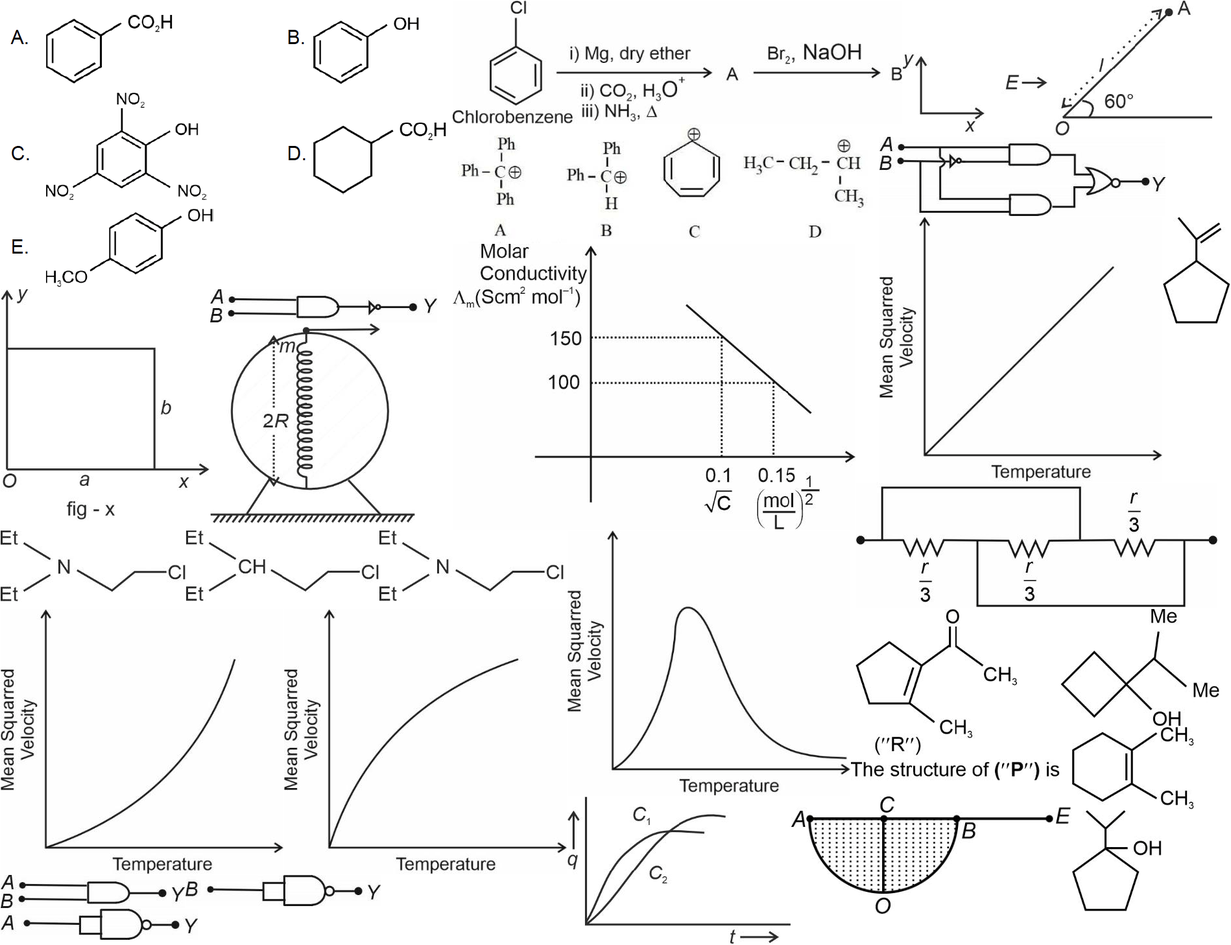
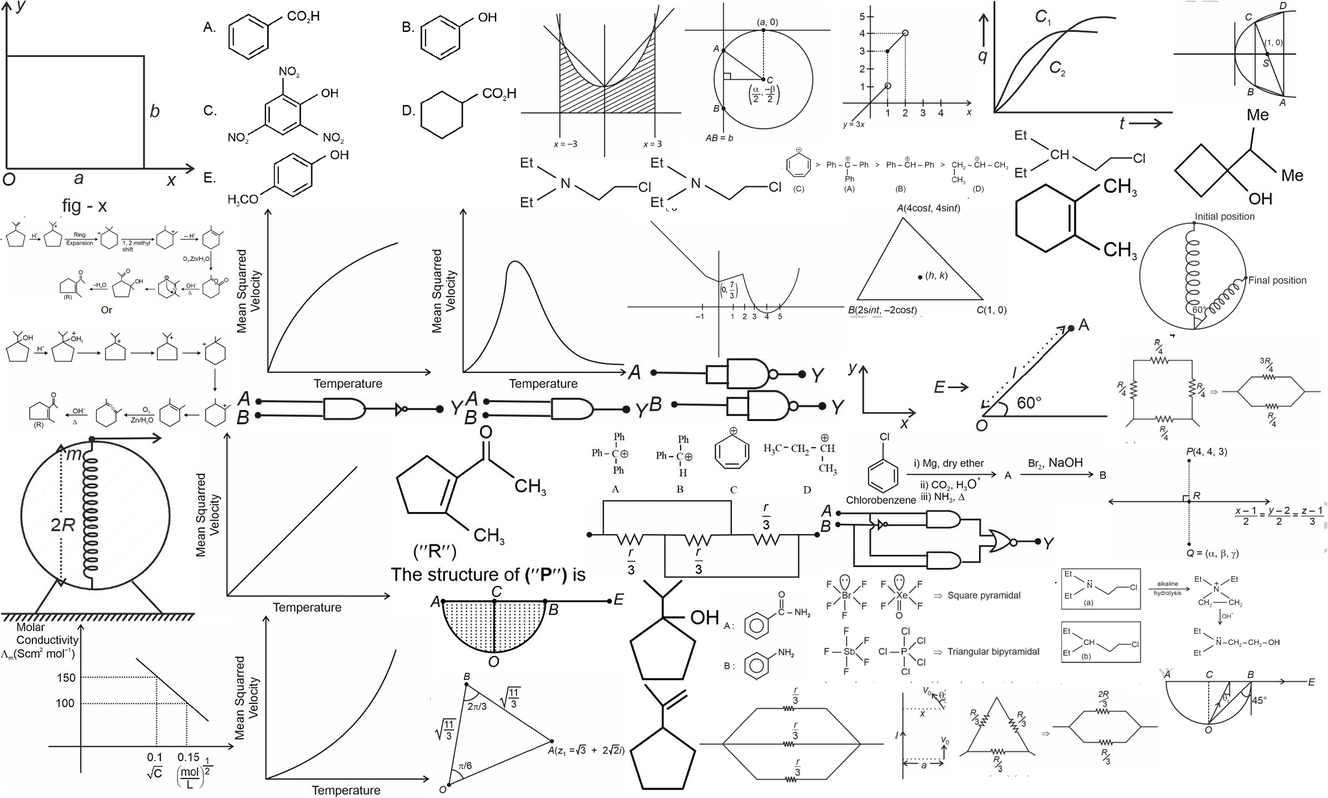
fexed

diff --git a/img/jee/mains/prev/2025/jee_mn_28_jan_2025_s1.css b/img/jee/mains/prev/2025/jee_mn_28_jan_2025_s1.css
@@ -6,125 +6,227 @@ Inline:     <i class="yourspritesname"></i>
 Responsive: <div class="yourspritesname"></div>
 */
 
-.jee_mn_28_jan_2025_s1_q_33 {max-width:432px; max-height:182px; }
-.jee_mn_28_jan_2025_s1_q_33::after {content: '\00a0';display: inline-block; width:432px; height:182px; background-position: 83.21964529331514% 96.31372549019608%; background-size: 439.35185185185185% 800.5494505494505%; background-image: url(jee_mn_28_jan_2025_s1_0.png);padding: 0; }
-div.jee_mn_28_jan_2025_s1_q_33::after {max-width:432px; width:100%;height:0;padding: 0 0 42.129629629629626% 0;}
-.jee_mn_28_jan_2025_s1_q_34 {max-width:344px; max-height:228px; }
-.jee_mn_28_jan_2025_s1_q_34::after {content: '\00a0';display: inline-block; width:344px; height:228px; background-position: 56.306306306306304% 99.91863303498779%; background-size: 551.7441860465116% 639.0350877192982%; background-image: url(jee_mn_28_jan_2025_s1_0.png);padding: 0; }
-div.jee_mn_28_jan_2025_s1_q_34::after {max-width:344px; width:100%;height:0;padding: 0 0 66.27906976744185% 0;}
-.jee_mn_28_jan_2025_s1_q_35 {max-width:477px; max-height:209px; }
-.jee_mn_28_jan_2025_s1_q_35::after {content: '\00a0';display: inline-block; width:477px; height:209px; background-position: 97.95918367346938% 0.08012820512820513%; background-size: 397.9035639412998% 697.1291866028708%; background-image: url(jee_mn_28_jan_2025_s1_0.png);padding: 0; }
-div.jee_mn_28_jan_2025_s1_q_35::after {max-width:477px; width:100%;height:0;padding: 0 0 43.81551362683438% 0;}
-.jee_mn_28_jan_2025_s1_q_38 {max-width:441px; max-height:122px; }
-.jee_mn_28_jan_2025_s1_q_38::after {content: '\00a0';display: inline-block; width:441px; height:122px; background-position: 93.06794783802333% 15.805243445692884%; background-size: 430.3854875283447% 1194.2622950819673%; background-image: url(jee_mn_28_jan_2025_s1_0.png);padding: 0; }
-div.jee_mn_28_jan_2025_s1_q_38::after {max-width:441px; width:100%;height:0;padding: 0 0 27.664399092970523% 0;}
+.jee_mn_28_jan_2025_s1_q_33 {max-width:300px; max-height:126px; }
+.jee_mn_28_jan_2025_s1_q_33::after {content: '\00a0';display: inline-block; width:300px; height:126px; background-position: 37.95077275329135% 81.79347826086956%; background-size: 682.3333333333334% 976.1904761904761%; background-image: url(jee_mn_28_jan_2025_s1_0.png);padding: 0; }
+div.jee_mn_28_jan_2025_s1_q_33::after {max-width:300px; width:100%;height:0;padding: 0 0 42% 0;}
+.jee_mn_28_jan_2025_s1_q_34 {max-width:300px; max-height:199px; }
+.jee_mn_28_jan_2025_s1_q_34::after {content: '\00a0';display: inline-block; width:300px; height:199px; background-position: 86.31940469376073% 0.09699321047526673%; background-size: 682.3333333333334% 618.0904522613065%; background-image: url(jee_mn_28_jan_2025_s1_0.png);padding: 0; }
+div.jee_mn_28_jan_2025_s1_q_34::after {max-width:300px; width:100%;height:0;padding: 0 0 66.33333333333333% 0;}
+.jee_mn_28_jan_2025_s1_q_35 {max-width:400px; max-height:175px; }
+.jee_mn_28_jan_2025_s1_q_35::after {content: '\00a0';display: inline-block; width:400px; height:175px; background-position: 79.35640558591378% 46.540284360189574%; background-size: 511.75% 702.8571428571429%; background-image: url(jee_mn_28_jan_2025_s1_0.png);padding: 0; }
+div.jee_mn_28_jan_2025_s1_q_35::after {max-width:400px; width:100%;height:0;padding: 0 0 43.75% 0;}
+.jee_mn_28_jan_2025_s1_q_38 {max-width:360px; max-height:100px; }
+.jee_mn_28_jan_2025_s1_q_38::after {content: '\00a0';display: inline-block; width:360px; height:100px; background-position: 74.98518079430943% 68.84955752212389%; background-size: 568.6111111111111% 1230%; background-image: url(jee_mn_28_jan_2025_s1_0.png);padding: 0; }
+div.jee_mn_28_jan_2025_s1_q_38::after {max-width:360px; width:100%;height:0;padding: 0 0 27.77777777777778% 0;}
 .jee_mn_28_jan_2025_s1_q_38a {max-width:284px; max-height:51px; }
-.jee_mn_28_jan_2025_s1_q_38a::after {content: '\00a0';display: inline-block; width:284px; height:51px; background-position: 0.061957868649318466% 95.94594594594595%; background-size: 668.3098591549295% 2856.8627450980393%; background-image: url(jee_mn_28_jan_2025_s1_0.png);padding: 0; }
+.jee_mn_28_jan_2025_s1_q_38a::after {content: '\00a0';display: inline-block; width:284px; height:51px; background-position: 40.61259217243335% 51.14503816793893%; background-size: 720.7746478873239% 2411.764705882353%; background-image: url(jee_mn_28_jan_2025_s1_0.png);padding: 0; }
 div.jee_mn_28_jan_2025_s1_q_38a::after {max-width:284px; width:100%;height:0;padding: 0 0 17.95774647887324% 0;}
 .jee_mn_28_jan_2025_s1_q_38b {max-width:301px; max-height:48px; }
-.jee_mn_28_jan_2025_s1_q_38b::after {content: '\00a0';display: inline-block; width:301px; height:48px; background-position: 17.908578584846587% 95.7416607523066%; background-size: 630.5647840531561% 3035.4166666666665%; background-image: url(jee_mn_28_jan_2025_s1_0.png);padding: 0; }
+.jee_mn_28_jan_2025_s1_q_38b::after {content: '\00a0';display: inline-block; width:301px; height:48px; background-position: 57.33104238258878% 50.84602368866328%; background-size: 680.0664451827242% 2562.5%; background-image: url(jee_mn_28_jan_2025_s1_0.png);padding: 0; }
 div.jee_mn_28_jan_2025_s1_q_38b::after {max-width:301px; width:100%;height:0;padding: 0 0 15.946843853820598% 0;}
 .jee_mn_28_jan_2025_s1_q_38c {max-width:304px; max-height:48px; }
-.jee_mn_28_jan_2025_s1_q_38c::after {content: '\00a0';display: inline-block; width:304px; height:48px; background-position: 0.06273525721455459% 99.43222143364088%; background-size: 624.3421052631579% 3035.4166666666665%; background-image: url(jee_mn_28_jan_2025_s1_0.png);padding: 0; }
+.jee_mn_28_jan_2025_s1_q_38c::after {content: '\00a0';display: inline-block; width:304px; height:48px; background-position: 55.47905909351692% 46.7005076142132%; background-size: 673.3552631578947% 2562.5%; background-image: url(jee_mn_28_jan_2025_s1_0.png);padding: 0; }
 div.jee_mn_28_jan_2025_s1_q_38c::after {max-width:304px; width:100%;height:0;padding: 0 0 15.789473684210526% 0;}
 .jee_mn_28_jan_2025_s1_q_38d {max-width:350px; max-height:51px; }
-.jee_mn_28_jan_2025_s1_q_38d::after {content: '\00a0';display: inline-block; width:350px; height:51px; background-position: 20.930232558139537% 31.721194879089616%; background-size: 542.2857142857143% 2856.8627450980393%; background-image: url(jee_mn_28_jan_2025_s1_0.png);padding: 0; }
+.jee_mn_28_jan_2025_s1_q_38d::after {content: '\00a0';display: inline-block; width:350px; height:51px; background-position: 21.50854449027696% 51.14503816793893%; background-size: 584.8571428571429% 2411.764705882353%; background-image: url(jee_mn_28_jan_2025_s1_0.png);padding: 0; }
 div.jee_mn_28_jan_2025_s1_q_38d::after {max-width:350px; width:100%;height:0;padding: 0 0 14.571428571428571% 0;}
-.jee_mn_28_jan_2025_s1_q_39 {max-width:322px; max-height:356px; }
-.jee_mn_28_jan_2025_s1_q_39::after {content: '\00a0';display: inline-block; width:322px; height:356px; background-position: 0.06345177664974619% 40.508628519527704%; background-size: 589.4409937888199% 409.2696629213483%; background-image: url(jee_mn_28_jan_2025_s1_0.png);padding: 0; }
-div.jee_mn_28_jan_2025_s1_q_39::after {max-width:322px; width:100%;height:0;padding: 0 0 110.55900621118012% 0;}
-.jee_mn_28_jan_2025_s1_q_41 {max-width:316px; max-height:309px; }
-.jee_mn_28_jan_2025_s1_q_41::after {content: '\00a0';display: inline-block; width:316px; height:309px; background-position: 20.480404551201012% 43.37979094076655%; background-size: 600.632911392405% 471.5210355987055%; background-image: url(jee_mn_28_jan_2025_s1_0.png);padding: 0; }
-div.jee_mn_28_jan_2025_s1_q_41::after {max-width:316px; width:100%;height:0;padding: 0 0 97.78481012658227% 0;}
-.jee_mn_28_jan_2025_s1_q_43 {max-width:557px; max-height:194px; }
-.jee_mn_28_jan_2025_s1_q_43::after {content: '\00a0';display: inline-block; width:557px; height:194px; background-position: 98.43400447427292% 58.90736342042755%; background-size: 340.754039497307% 751.0309278350516%; background-image: url(jee_mn_28_jan_2025_s1_0.png);padding: 0; }
-div.jee_mn_28_jan_2025_s1_q_43::after {max-width:557px; width:100%;height:0;padding: 0 0 34.829443447037704% 0;}
-.jee_mn_28_jan_2025_s1_q_45a {max-width:436px; max-height:409px; }
-.jee_mn_28_jan_2025_s1_q_45a::after {content: '\00a0';display: inline-block; width:436px; height:409px; background-position: 92.74965800273598% 31.870229007633586%; background-size: 435.3211009174312% 356.23471882640587%; background-image: url(jee_mn_28_jan_2025_s1_0.png);padding: 0; }
-div.jee_mn_28_jan_2025_s1_q_45a::after {max-width:436px; width:100%;height:0;padding: 0 0 93.80733944954129% 0;}
-.jee_mn_28_jan_2025_s1_q_45b {max-width:436px; max-height:409px; }
-.jee_mn_28_jan_2025_s1_q_45b::after {content: '\00a0';display: inline-block; width:436px; height:409px; background-position: 0.06839945280437756% 89.59923664122137%; background-size: 435.3211009174312% 356.23471882640587%; background-image: url(jee_mn_28_jan_2025_s1_0.png);padding: 0; }
-div.jee_mn_28_jan_2025_s1_q_45b::after {max-width:436px; width:100%;height:0;padding: 0 0 93.80733944954129% 0;}
-.jee_mn_28_jan_2025_s1_q_45c {max-width:436px; max-height:409px; }
-.jee_mn_28_jan_2025_s1_q_45c::after {content: '\00a0';display: inline-block; width:436px; height:409px; background-position: 29.958960328317374% 89.59923664122137%; background-size: 435.3211009174312% 356.23471882640587%; background-image: url(jee_mn_28_jan_2025_s1_0.png);padding: 0; }
-div.jee_mn_28_jan_2025_s1_q_45c::after {max-width:436px; width:100%;height:0;padding: 0 0 93.80733944954129% 0;}
-.jee_mn_28_jan_2025_s1_q_45d {max-width:436px; max-height:409px; }
-.jee_mn_28_jan_2025_s1_q_45d::after {content: '\00a0';display: inline-block; width:436px; height:409px; background-position: 59.84952120383037% 78.05343511450381%; background-size: 435.3211009174312% 356.23471882640587%; background-image: url(jee_mn_28_jan_2025_s1_0.png);padding: 0; }
-div.jee_mn_28_jan_2025_s1_q_45d::after {max-width:436px; width:100%;height:0;padding: 0 0 93.80733944954129% 0;}
-.jee_mn_28_jan_2025_s1_q_53 {max-width:322px; max-height:265px; }
-.jee_mn_28_jan_2025_s1_q_53::after {content: '\00a0';display: inline-block; width:322px; height:265px; background-position: 83.248730964467% 78.7751677852349%; background-size: 589.4409937888199% 549.811320754717%; background-image: url(jee_mn_28_jan_2025_s1_0.png);padding: 0; }
-div.jee_mn_28_jan_2025_s1_q_53::after {max-width:322px; width:100%;height:0;padding: 0 0 82.29813664596273% 0;}
+.jee_mn_28_jan_2025_s1_q_39 {max-width:300px; max-height:332px; }
+.jee_mn_28_jan_2025_s1_q_39::after {content: '\00a0';display: inline-block; width:300px; height:332px; background-position: 0.057240984544934176% 0.111358574610245%; background-size: 682.3333333333334% 370.48192771084337%; background-image: url(jee_mn_28_jan_2025_s1_0.png);padding: 0; }
+div.jee_mn_28_jan_2025_s1_q_39::after {max-width:300px; width:100%;height:0;padding: 0 0 110.66666666666667% 0;}
+.jee_mn_28_jan_2025_s1_q_41 {max-width:300px; max-height:293px; }
+.jee_mn_28_jan_2025_s1_q_41::after {content: '\00a0';display: inline-block; width:300px; height:293px; background-position: 0.057240984544934176% 71.07790821771611%; background-size: 682.3333333333334% 419.7952218430034%; background-image: url(jee_mn_28_jan_2025_s1_0.png);padding: 0; }
+div.jee_mn_28_jan_2025_s1_q_41::after {max-width:300px; width:100%;height:0;padding: 0 0 97.66666666666667% 0;}
+.jee_mn_28_jan_2025_s1_q_43 {max-width:360px; max-height:125px; }
+.jee_mn_28_jan_2025_s1_q_43::after {content: '\00a0';display: inline-block; width:360px; height:125px; background-position: 53.58624777711915% 69.41176470588235%; background-size: 568.6111111111111% 984%; background-image: url(jee_mn_28_jan_2025_s1_0.png);padding: 0; }
+div.jee_mn_28_jan_2025_s1_q_43::after {max-width:360px; width:100%;height:0;padding: 0 0 34.72222222222222% 0;}
+.jee_mn_28_jan_2025_s1_q_45a {max-width:300px; max-height:281px; }
+.jee_mn_28_jan_2025_s1_q_45a::after {content: '\00a0';display: inline-block; width:300px; height:281px; background-position: 17.28677733257012% 70.17913593256058%; background-size: 682.3333333333334% 437.7224199288256%; background-image: url(jee_mn_28_jan_2025_s1_0.png);padding: 0; }
+div.jee_mn_28_jan_2025_s1_q_45a::after {max-width:300px; width:100%;height:0;padding: 0 0 93.66666666666667% 0;}
+.jee_mn_28_jan_2025_s1_q_45b {max-width:300px; max-height:281px; }
+.jee_mn_28_jan_2025_s1_q_45b::after {content: '\00a0';display: inline-block; width:300px; height:281px; background-position: 20.721236405266172% 99.89462592202318%; background-size: 682.3333333333334% 437.7224199288256%; background-image: url(jee_mn_28_jan_2025_s1_0.png);padding: 0; }
+div.jee_mn_28_jan_2025_s1_q_45b::after {max-width:300px; width:100%;height:0;padding: 0 0 93.66666666666667% 0;}
+.jee_mn_28_jan_2025_s1_q_45c {max-width:300px; max-height:281px; }
+.jee_mn_28_jan_2025_s1_q_45c::after {content: '\00a0';display: inline-block; width:300px; height:281px; background-position: 20.892959358900974% 33.825079030558484%; background-size: 682.3333333333334% 437.7224199288256%; background-image: url(jee_mn_28_jan_2025_s1_0.png);padding: 0; }
+div.jee_mn_28_jan_2025_s1_q_45c::after {max-width:300px; width:100%;height:0;padding: 0 0 93.66666666666667% 0;}
+.jee_mn_28_jan_2025_s1_q_45d {max-width:300px; max-height:281px; }
+.jee_mn_28_jan_2025_s1_q_45d::after {content: '\00a0';display: inline-block; width:300px; height:281px; background-position: 38.12249570692616% 33.825079030558484%; background-size: 682.3333333333334% 437.7224199288256%; background-image: url(jee_mn_28_jan_2025_s1_0.png);padding: 0; }
+div.jee_mn_28_jan_2025_s1_q_45d::after {max-width:300px; width:100%;height:0;padding: 0 0 93.66666666666667% 0;}
+.jee_mn_28_jan_2025_s1_q_53 {max-width:300px; max-height:247px; }
+.jee_mn_28_jan_2025_s1_q_53::after {content: '\00a0';display: inline-block; width:300px; height:247px; background-position: 34.5163136805953% 66.63275686673448%; background-size: 682.3333333333334% 497.9757085020243%; background-image: url(jee_mn_28_jan_2025_s1_0.png);padding: 0; }
+div.jee_mn_28_jan_2025_s1_q_53::after {max-width:300px; width:100%;height:0;padding: 0 0 82.33333333333333% 0;}
 .jee_mn_28_jan_2025_s1_q_53a {max-width:188px; max-height:127px; }
-.jee_mn_28_jan_2025_s1_q_53a::after {content: '\00a0';display: inline-block; width:188px; height:127px; background-position: 96.66666666666667% 84.28571428571429%; background-size: 1009.5744680851063% 1147.244094488189%; background-image: url(jee_mn_28_jan_2025_s1_0.png);padding: 0; }
+.jee_mn_28_jan_2025_s1_q_53a::after {content: '\00a0';display: inline-block; width:188px; height:127px; background-position: 84.18504572350726% 24.932003626473254%; background-size: 1088.8297872340424% 968.503937007874%; background-image: url(jee_mn_28_jan_2025_s1_0.png);padding: 0; }
 div.jee_mn_28_jan_2025_s1_q_53a::after {max-width:188px; width:100%;height:0;padding: 0 0 67.55319148936171% 0;}
 .jee_mn_28_jan_2025_s1_q_53b {max-width:138px; max-height:156px; }
-.jee_mn_28_jan_2025_s1_q_53b::after {content: '\00a0';display: inline-block; width:138px; height:156px; background-position: 93.92045454545455% 96.00307455803228%; background-size: 1375.3623188405797% 933.974358974359%; background-image: url(jee_mn_28_jan_2025_s1_0.png);padding: 0; }
+.jee_mn_28_jan_2025_s1_q_53b::after {content: '\00a0';display: inline-block; width:138px; height:156px; background-position: 50.81194342587742% 83.14711359404097%; background-size: 1483.3333333333333% 788.4615384615385%; background-image: url(jee_mn_28_jan_2025_s1_0.png);padding: 0; }
 div.jee_mn_28_jan_2025_s1_q_53b::after {max-width:138px; width:100%;height:0;padding: 0 0 113.04347826086956% 0;}
-.jee_mn_28_jan_2025_s1_q_53c {max-width:245px; max-height:181px; }
-.jee_mn_28_jan_2025_s1_q_53c::after {content: '\00a0';display: inline-block; width:245px; height:181px; background-position: 98.91107078039927% 73.58934169278997%; background-size: 774.6938775510204% 804.9723756906077%; background-image: url(jee_mn_28_jan_2025_s1_0.png);padding: 0; }
-div.jee_mn_28_jan_2025_s1_q_53c::after {max-width:245px; width:100%;height:0;padding: 0 0 73.87755102040816% 0;}
+.jee_mn_28_jan_2025_s1_q_53c {max-width:200px; max-height:148px; }
+.jee_mn_28_jan_2025_s1_q_53c::after {content: '\00a0';display: inline-block; width:200px; height:148px; background-position: 97.94260963724959% 15.526802218114602%; background-size: 1023.5% 831.081081081081%; background-image: url(jee_mn_28_jan_2025_s1_0.png);padding: 0; }
+div.jee_mn_28_jan_2025_s1_q_53c::after {max-width:200px; width:100%;height:0;padding: 0 0 74% 0;}
 .jee_mn_28_jan_2025_s1_q_53d {max-width:104px; max-height:165px; }
-.jee_mn_28_jan_2025_s1_q_53d::after {content: '\00a0';display: inline-block; width:104px; height:165px; background-position: 99.94425863991081% 25.851393188854487%; background-size: 1825% 883.030303030303%; background-image: url(jee_mn_28_jan_2025_s1_0.png);padding: 0; }
+.jee_mn_28_jan_2025_s1_q_53d::after {content: '\00a0';display: inline-block; width:104px; height:165px; background-position: 49.922799794132786% 98.87323943661971%; background-size: 1968.2692307692307% 745.4545454545455%; background-image: url(jee_mn_28_jan_2025_s1_0.png);padding: 0; }
 div.jee_mn_28_jan_2025_s1_q_53d::after {max-width:104px; width:100%;height:0;padding: 0 0 158.65384615384616% 0;}
-.jee_mn_28_jan_2025_s1_q_55 {max-width:696px; max-height:444px; }
-.jee_mn_28_jan_2025_s1_q_55::after {content: '\00a0';display: inline-block; width:696px; height:444px; background-position: 0.08319467554076539% 0.09871668311944719%; background-size: 272.7011494252874% 328.15315315315314%; background-image: url(jee_mn_28_jan_2025_s1_0.png);padding: 0; }
-div.jee_mn_28_jan_2025_s1_q_55::after {max-width:696px; width:100%;height:0;padding: 0 0 63.793103448275865% 0;}
-.jee_mn_28_jan_2025_s1_q_61 {max-width:657px; max-height:183px; }
-.jee_mn_28_jan_2025_s1_q_61::after {content: '\00a0';display: inline-block; width:657px; height:183px; background-position: 56.24496373892023% 15.070643642072213%; background-size: 288.8888888888889% 796.1748633879781%; background-image: url(jee_mn_28_jan_2025_s1_0.png);padding: 0; }
-div.jee_mn_28_jan_2025_s1_q_61::after {max-width:657px; width:100%;height:0;padding: 0 0 27.85388127853881% 0;}
-.jee_mn_28_jan_2025_s1_q_65a {max-width:284px; max-height:109px; }
-.jee_mn_28_jan_2025_s1_q_65a::after {content: '\00a0';display: inline-block; width:284px; height:109px; background-position: 36.2453531598513% 60.682492581602375%; background-size: 668.3098591549295% 1336.697247706422%; background-image: url(jee_mn_28_jan_2025_s1_0.png);padding: 0; }
-div.jee_mn_28_jan_2025_s1_q_65a::after {max-width:284px; width:100%;height:0;padding: 0 0 38.38028169014085% 0;}
-.jee_mn_28_jan_2025_s1_q_65b {max-width:297px; max-height:109px; }
-.jee_mn_28_jan_2025_s1_q_65b::after {content: '\00a0';display: inline-block; width:297px; height:109px; background-position: 17.926296064959402% 60.682492581602375%; background-size: 639.057239057239% 1336.697247706422%; background-image: url(jee_mn_28_jan_2025_s1_0.png);padding: 0; }
-div.jee_mn_28_jan_2025_s1_q_65b::after {max-width:297px; width:100%;height:0;padding: 0 0 36.7003367003367% 0;}
-.jee_mn_28_jan_2025_s1_q_65c {max-width:285px; max-height:110px; }
-.jee_mn_28_jan_2025_s1_q_65c::after {content: '\00a0';display: inline-block; width:285px; height:110px; background-position: 0.06199628022318661% 60.7275426874536%; background-size: 665.9649122807018% 1324.5454545454545%; background-image: url(jee_mn_28_jan_2025_s1_0.png);padding: 0; }
-div.jee_mn_28_jan_2025_s1_q_65c::after {max-width:285px; width:100%;height:0;padding: 0 0 38.59649122807018% 0;}
-.jee_mn_28_jan_2025_s1_q_71 {max-width:693px; max-height:190px; }
-.jee_mn_28_jan_2025_s1_q_71::after {content: '\00a0';display: inline-block; width:693px; height:190px; background-position: 57.9253112033195% 0.07892659826361484%; background-size: 273.88167388167386% 766.8421052631579%; background-image: url(jee_mn_28_jan_2025_s1_0.png);padding: 0; }
-div.jee_mn_28_jan_2025_s1_q_71::after {max-width:693px; width:100%;height:0;padding: 0 0 27.417027417027416% 0;}
-.jee_mn_28_jan_2025_s1_q_75 {max-width:621px; max-height:441px; }
-.jee_mn_28_jan_2025_s1_q_75::after {content: '\00a0';display: inline-block; width:621px; height:441px; background-position: 54.65935787000783% 37.00787401574803%; background-size: 305.6360708534622% 330.3854875283447%; background-image: url(jee_mn_28_jan_2025_s1_0.png);padding: 0; }
-div.jee_mn_28_jan_2025_s1_q_75::after {max-width:621px; width:100%;height:0;padding: 0 0 71.01449275362319% 0;}
+.jee_mn_28_jan_2025_s1_q_55 {max-width:500px; max-height:319px; }
+.jee_mn_28_jan_2025_s1_q_55::after {content: '\00a0';display: inline-block; width:500px; height:319px; background-position: 19.521654815772465% 0.10976948408342481%; background-size: 409.4% 385.57993730407526%; background-image: url(jee_mn_28_jan_2025_s1_0.png);padding: 0; }
+div.jee_mn_28_jan_2025_s1_q_55::after {max-width:500px; width:100%;height:0;padding: 0 0 63.8% 0;}
+.jee_mn_28_jan_2025_s1_q_61 {max-width:400px; max-height:111px; }
+.jee_mn_28_jan_2025_s1_q_61::after {content: '\00a0';display: inline-block; width:400px; height:111px; background-position: 54.88767455980571% 58.53440571939232%; background-size: 511.75% 1108.1081081081081%; background-image: url(jee_mn_28_jan_2025_s1_0.png);padding: 0; }
+div.jee_mn_28_jan_2025_s1_q_61::after {max-width:400px; width:100%;height:0;padding: 0 0 27.75% 0;}
+.jee_mn_28_jan_2025_s1_q_65a {max-width:200px; max-height:77px; }
+.jee_mn_28_jan_2025_s1_q_65a::after {content: '\00a0';display: inline-block; width:200px; height:77px; background-position: 43.47590687601516% 21.075455333911535%; background-size: 1023.5% 1597.4025974025974%; background-image: url(jee_mn_28_jan_2025_s1_0.png);padding: 0; }
+div.jee_mn_28_jan_2025_s1_q_65a::after {max-width:200px; width:100%;height:0;padding: 0 0 38.5% 0;}
+.jee_mn_28_jan_2025_s1_q_65b {max-width:200px; max-height:73px; }
+.jee_mn_28_jan_2025_s1_q_65b::after {content: '\00a0';display: inline-block; width:200px; height:73px; background-position: 84.73199783432594% 17.372515125324114%; background-size: 1023.5% 1684.9315068493152%; background-image: url(jee_mn_28_jan_2025_s1_0.png);padding: 0; }
+div.jee_mn_28_jan_2025_s1_q_65b::after {max-width:200px; width:100%;height:0;padding: 0 0 36.5% 0;}
+.jee_mn_28_jan_2025_s1_q_65c {max-width:200px; max-height:77px; }
+.jee_mn_28_jan_2025_s1_q_65c::after {content: '\00a0';display: inline-block; width:200px; height:77px; background-position: 54.35841905793178% 21.075455333911535%; background-size: 1023.5% 1597.4025974025974%; background-image: url(jee_mn_28_jan_2025_s1_0.png);padding: 0; }
+div.jee_mn_28_jan_2025_s1_q_65c::after {max-width:200px; width:100%;height:0;padding: 0 0 38.5% 0;}
+.jee_mn_28_jan_2025_s1_q_71 {max-width:400px; max-height:110px; }
+.jee_mn_28_jan_2025_s1_q_71::after {content: '\00a0';display: inline-block; width:400px; height:110px; background-position: 79.23497267759562% 59.55357142857143%; background-size: 511.75% 1118.1818181818182%; background-image: url(jee_mn_28_jan_2025_s1_0.png);padding: 0; }
+div.jee_mn_28_jan_2025_s1_q_71::after {max-width:400px; width:100%;height:0;padding: 0 0 27.5% 0;}
+.jee_mn_28_jan_2025_s1_q_75 {max-width:360px; max-height:256px; }
+.jee_mn_28_jan_2025_s1_q_75::after {content: '\00a0';display: inline-block; width:360px; height:256px; background-position: 0.05927682276229994% 98.56262833675565%; background-size: 568.6111111111111% 480.46875%; background-image: url(jee_mn_28_jan_2025_s1_0.png);padding: 0; }
+div.jee_mn_28_jan_2025_s1_q_75::after {max-width:360px; width:100%;height:0;padding: 0 0 71.11111111111111% 0;}
+.jee_mn_28_jan_2025_s1_sol_11 {max-width:205px; max-height:166px; }
+.jee_mn_28_jan_2025_s1_sol_11::after {content: '\00a0';display: inline-block; width:205px; height:166px; background-position: 98.2084690553746% 0.09398496240601503%; background-size: 998.5365853658536% 740.9638554216867%; background-image: url(jee_mn_28_jan_2025_s1_0.png);padding: 0; }
+div.jee_mn_28_jan_2025_s1_sol_11::after {max-width:205px; width:100%;height:0;padding: 0 0 80.97560975609755% 0;}
+.jee_mn_28_jan_2025_s1_sol_13 {max-width:339px; max-height:230px; }
+.jee_mn_28_jan_2025_s1_sol_13::after {content: '\00a0';display: inline-block; width:339px; height:230px; background-position: 56.61592505854801% 32.1%; background-size: 603.834808259587% 534.7826086956521%; background-image: url(jee_mn_28_jan_2025_s1_0.png);padding: 0; }
+div.jee_mn_28_jan_2025_s1_sol_13::after {max-width:339px; width:100%;height:0;padding: 0 0 67.84660766961652% 0;}
+.jee_mn_28_jan_2025_s1_sol_17 {max-width:247px; max-height:241px; }
+.jee_mn_28_jan_2025_s1_sol_17::after {content: '\00a0';display: inline-block; width:247px; height:241px; background-position: 44.611111111111114% 0.10111223458038422%; background-size: 828.744939271255% 510.37344398340247%; background-image: url(jee_mn_28_jan_2025_s1_0.png);padding: 0; }
+div.jee_mn_28_jan_2025_s1_sol_17::after {max-width:247px; width:100%;height:0;padding: 0 0 97.57085020242916% 0;}
+.jee_mn_28_jan_2025_s1_sol_2 {max-width:236px; max-height:220px; }
+.jee_mn_28_jan_2025_s1_sol_2::after {content: '\00a0';display: inline-block; width:236px; height:220px; background-position: 58.034235229155165% 0.09900990099009901%; background-size: 867.3728813559322% 559.0909090909091%; background-image: url(jee_mn_28_jan_2025_s1_0.png);padding: 0; }
+div.jee_mn_28_jan_2025_s1_sol_2::after {max-width:236px; width:100%;height:0;padding: 0 0 93.22033898305085% 0;}
+.jee_mn_28_jan_2025_s1_sol_24 {max-width:219px; max-height:206px; }
+.jee_mn_28_jan_2025_s1_sol_24::after {content: '\00a0';display: inline-block; width:219px; height:206px; background-position: 70.45951859956236% 0.09765625%; background-size: 934.703196347032% 597.0873786407767%; background-image: url(jee_mn_28_jan_2025_s1_0.png);padding: 0; }
+div.jee_mn_28_jan_2025_s1_sol_24::after {max-width:219px; width:100%;height:0;padding: 0 0 94.06392694063926% 0;}
+.jee_mn_28_jan_2025_s1_sol_28 {max-width:103px; max-height:154px; }
+.jee_mn_28_jan_2025_s1_sol_28::after {content: '\00a0';display: inline-block; width:103px; height:154px; background-position: 70.5246913580247% 97.86245353159852%; background-size: 1987.378640776699% 798.7012987012987%; background-image: url(jee_mn_28_jan_2025_s1_0.png);padding: 0; }
+div.jee_mn_28_jan_2025_s1_sol_28::after {max-width:103px; width:100%;height:0;padding: 0 0 149.51456310679612% 0;}
+.jee_mn_28_jan_2025_s1_sol_29 {max-width:311px; max-height:144px; }
+.jee_mn_28_jan_2025_s1_sol_29::after {content: '\00a0';display: inline-block; width:311px; height:144px; background-position: 84.96543778801843% 96.96132596685082%; background-size: 658.1993569131832% 854.1666666666666%; background-image: url(jee_mn_28_jan_2025_s1_0.png);padding: 0; }
+div.jee_mn_28_jan_2025_s1_sol_29::after {max-width:311px; width:100%;height:0;padding: 0 0 46.30225080385852% 0;}
+.jee_mn_28_jan_2025_s1_sol_29a {max-width:333px; max-height:166px; }
+.jee_mn_28_jan_2025_s1_sol_29a::after {content: '\00a0';display: inline-block; width:333px; height:166px; background-position: 99.64994165694283% 48.402255639097746%; background-size: 614.7147147147147% 740.9638554216867%; background-image: url(jee_mn_28_jan_2025_s1_0.png);padding: 0; }
+div.jee_mn_28_jan_2025_s1_sol_29a::after {max-width:333px; width:100%;height:0;padding: 0 0 49.849849849849846% 0;}
+.jee_mn_28_jan_2025_s1_sol_33 {max-width:246px; max-height:106px; }
+.jee_mn_28_jan_2025_s1_sol_33::after {content: '\00a0';display: inline-block; width:246px; height:106px; background-position: 99.22265408106607% 91.63701067615658%; background-size: 832.1138211382114% 1160.377358490566%; background-image: url(jee_mn_28_jan_2025_s1_0.png);padding: 0; }
+div.jee_mn_28_jan_2025_s1_sol_33::after {max-width:246px; width:100%;height:0;padding: 0 0 43.08943089430894% 0;}
+.jee_mn_28_jan_2025_s1_sol_41 {max-width:267px; max-height:197px; }
+.jee_mn_28_jan_2025_s1_sol_41::after {content: '\00a0';display: inline-block; width:267px; height:197px; background-position: 98.53932584269663% 30.68731848983543%; background-size: 766.6666666666666% 624.3654822335026%; background-image: url(jee_mn_28_jan_2025_s1_0.png);padding: 0; }
+div.jee_mn_28_jan_2025_s1_sol_41::after {max-width:267px; width:100%;height:0;padding: 0 0 73.78277153558052% 0;}
+.jee_mn_28_jan_2025_s1_sol_43 {max-width:295px; max-height:154px; }
+.jee_mn_28_jan_2025_s1_sol_43::after {content: '\00a0';display: inline-block; width:295px; height:154px; background-position: 61.358447488584474% 98.23420074349443%; background-size: 693.8983050847457% 798.7012987012987%; background-image: url(jee_mn_28_jan_2025_s1_0.png);padding: 0; }
+div.jee_mn_28_jan_2025_s1_sol_43::after {max-width:295px; width:100%;height:0;padding: 0 0 52.20338983050848% 0;}
+.jee_mn_28_jan_2025_s1_sol_5 {max-width:248px; max-height:185px; }
+.jee_mn_28_jan_2025_s1_sol_5::after {content: '\00a0';display: inline-block; width:248px; height:185px; background-position: 72.6514730405781% 29.1866028708134%; background-size: 825.4032258064516% 664.8648648648649%; background-image: url(jee_mn_28_jan_2025_s1_0.png);padding: 0; }
+div.jee_mn_28_jan_2025_s1_sol_5::after {max-width:248px; width:100%;height:0;padding: 0 0 74.59677419354838% 0;}
+.jee_mn_28_jan_2025_s1_sol_53 {max-width:363px; max-height:331px; }
+.jee_mn_28_jan_2025_s1_sol_53::after {content: '\00a0';display: inline-block; width:363px; height:331px; background-position: 0.05938242280285035% 37.152391546162406%; background-size: 563.9118457300275% 371.6012084592145%; background-image: url(jee_mn_28_jan_2025_s1_0.png);padding: 0; }
+div.jee_mn_28_jan_2025_s1_sol_53::after {max-width:363px; width:100%;height:0;padding: 0 0 91.18457300275482% 0;}
+.jee_mn_28_jan_2025_s1_sol_57 {max-width:344px; max-height:173px; }
+.jee_mn_28_jan_2025_s1_sol_57::after {content: '\00a0';display: inline-block; width:344px; height:173px; background-position: 74.28068115091015% 83.15988647114474%; background-size: 595.0581395348837% 710.9826589595376%; background-image: url(jee_mn_28_jan_2025_s1_0.png);padding: 0; }
+div.jee_mn_28_jan_2025_s1_sol_57::after {max-width:344px; width:100%;height:0;padding: 0 0 50.2906976744186% 0;}
+.jee_mn_28_jan_2025_s1_sol_61 {max-width:359px; max-height:82px; }
+.jee_mn_28_jan_2025_s1_sol_61::after {content: '\00a0';display: inline-block; width:359px; height:82px; background-position: 71.38625592417061% 19.337979094076655%; background-size: 570.1949860724234% 1500%; background-image: url(jee_mn_28_jan_2025_s1_0.png);padding: 0; }
+div.jee_mn_28_jan_2025_s1_sol_61::after {max-width:359px; width:100%;height:0;padding: 0 0 22.841225626740947% 0;}
+.jee_mn_28_jan_2025_s1_sol_65 {max-width:357px; max-height:162px; }
+.jee_mn_28_jan_2025_s1_sol_65::after {content: '\00a0';display: inline-block; width:357px; height:162px; background-position: 96.21301775147928% 81.17977528089888%; background-size: 573.389355742297% 759.2592592592592%; background-image: url(jee_mn_28_jan_2025_s1_0.png);padding: 0; }
+div.jee_mn_28_jan_2025_s1_sol_65::after {max-width:357px; width:100%;height:0;padding: 0 0 45.378151260504204% 0;}
+.jee_mn_28_jan_2025_s1_sol_7 {max-width:306px; max-height:195px; }
+.jee_mn_28_jan_2025_s1_sol_7::after {content: '\00a0';display: inline-block; width:306px; height:195px; background-position: 38.081562320505455% 99.51690821256038%; background-size: 668.9542483660131% 630.7692307692307%; background-image: url(jee_mn_28_jan_2025_s1_0.png);padding: 0; }
+div.jee_mn_28_jan_2025_s1_sol_7::after {max-width:306px; width:100%;height:0;padding: 0 0 63.72549019607843% 0;}
+.jee_mn_28_jan_2025_s1_sol_71 {max-width:150px; max-height:163px; }
+.jee_mn_28_jan_2025_s1_sol_71::after {content: '\00a0';display: inline-block; width:150px; height:163px; background-position: 58.4607274644175% 83.69259606373008%; background-size: 1364.6666666666667% 754.601226993865%; background-image: url(jee_mn_28_jan_2025_s1_0.png);padding: 0; }
+div.jee_mn_28_jan_2025_s1_sol_71::after {max-width:150px; width:100%;height:0;padding: 0 0 108.66666666666667% 0;}
+.jee_mn_28_jan_2025_s1_sol_9 {max-width:340px; max-height:184px; }
+.jee_mn_28_jan_2025_s1_sol_9::after {content: '\00a0';display: inline-block; width:340px; height:184px; background-position: 99.94141769185705% 65.20076481835564%; background-size: 602.0588235294117% 668.4782608695652%; background-image: url(jee_mn_28_jan_2025_s1_0.png);padding: 0; }
+div.jee_mn_28_jan_2025_s1_sol_9::after {max-width:340px; width:100%;height:0;padding: 0 0 54.11764705882353% 0;}
 
 @keyframes jee_mn_28_jan_2025_s1_q-frames {
-    0% { background-position: 83.21964529331514% 96.31372549019608%;  }
-    8.333333333333332% { background-position: 56.306306306306304% 99.91863303498779%;  }
-    16.666666666666664% { background-position: 97.95918367346938% 0.08012820512820513%;  }
-    25% { background-position: 93.06794783802333% 15.805243445692884%;  }
-    33.33333333333333% { background-position: 0.06345177664974619% 40.508628519527704%;  }
-    41.66666666666667% { background-position: 20.480404551201012% 43.37979094076655%;  }
-    50% { background-position: 98.43400447427292% 58.90736342042755%;  }
-    58.333333333333336% { background-position: 83.248730964467% 78.7751677852349%;  }
-    66.66666666666666% { background-position: 0.08319467554076539% 0.09871668311944719%;  }
-    75% { background-position: 56.24496373892023% 15.070643642072213%;  }
-    83.33333333333334% { background-position: 57.9253112033195% 0.07892659826361484%;  }
-    91.66666666666666% { background-position: 54.65935787000783% 37.00787401574803%;  }
+    0% { background-position: 37.95077275329135% 81.79347826086956%;  }
+    8.333333333333332% { background-position: 86.31940469376073% 0.09699321047526673%;  }
+    16.666666666666664% { background-position: 79.35640558591378% 46.540284360189574%;  }
+    25% { background-position: 74.98518079430943% 68.84955752212389%;  }
+    33.33333333333333% { background-position: 0.057240984544934176% 0.111358574610245%;  }
+    41.66666666666667% { background-position: 0.057240984544934176% 71.07790821771611%;  }
+    50% { background-position: 53.58624777711915% 69.41176470588235%;  }
+    58.333333333333336% { background-position: 34.5163136805953% 66.63275686673448%;  }
+    66.66666666666666% { background-position: 19.521654815772465% 0.10976948408342481%;  }
+    75% { background-position: 54.88767455980571% 58.53440571939232%;  }
+    83.33333333333334% { background-position: 79.23497267759562% 59.55357142857143%;  }
+    91.66666666666666% { background-position: 0.05927682276229994% 98.56262833675565%;  }
 }
 
 .jee_mn_28_jan_2025_s1_q-animation {
-    max-width: 432px;
-    max-height: 182px;
+    max-width: 300px;
+    max-height: 126px;
 }
 .jee_mn_28_jan_2025_s1_q-animation::after {
     content: '\00a0';
     display: inline-block;
-    width: 432px;
-    height: 182px;
+    width: 300px;
+    height: 126px;
     padding: 0;
     background-image: url(jee_mn_28_jan_2025_s1_0.png);
-    background-size: 439.35185185185185% 800.5494505494505%; 
+    background-size: 682.3333333333334% 976.1904761904761%; 
     animation-name: jee_mn_28_jan_2025_s1_q-frames;
     animation-timing-function: steps(1);
     animation-duration: 1s;
     animation-iteration-count: infinite;
 }
 div.jee_mn_28_jan_2025_s1_q-animation::after {
-    max-width: 432px;
+    max-width: 300px;
     width: 100%;
     height: 0;
-    padding: 0 0 42.129629629629626% 0;
+    padding: 0 0 42% 0;
 }
 
-/* $TexturePacker:SmartUpdate:861960563f956bb753a75e3cc58fa07d:602e97ba639493ab2676ea0af892ea4c:2779ed6bdf8eff109f5492facae64cc8$ */
+@keyframes jee_mn_28_jan_2025_s1_sol-frames {
+    0% { background-position: 58.034235229155165% 0.09900990099009901%;  }
+    5.555555555555555% { background-position: 72.6514730405781% 29.1866028708134%;  }
+    11.11111111111111% { background-position: 38.081562320505455% 99.51690821256038%;  }
+    16.666666666666664% { background-position: 99.94141769185705% 65.20076481835564%;  }
+    22.22222222222222% { background-position: 98.2084690553746% 0.09398496240601503%;  }
+    27.77777777777778% { background-position: 56.61592505854801% 32.1%;  }
+    33.33333333333333% { background-position: 44.611111111111114% 0.10111223458038422%;  }
+    38.88888888888889% { background-position: 70.45951859956236% 0.09765625%;  }
+    44.44444444444444% { background-position: 70.5246913580247% 97.86245353159852%;  }
+    50% { background-position: 84.96543778801843% 96.96132596685082%;  }
+    55.55555555555556% { background-position: 99.22265408106607% 91.63701067615658%;  }
+    61.111111111111114% { background-position: 98.53932584269663% 30.68731848983543%;  }
+    66.66666666666666% { background-position: 61.358447488584474% 98.23420074349443%;  }
+    72.22222222222221% { background-position: 0.05938242280285035% 37.152391546162406%;  }
+    77.77777777777779% { background-position: 74.28068115091015% 83.15988647114474%;  }
+    83.33333333333334% { background-position: 71.38625592417061% 19.337979094076655%;  }
+    88.88888888888889% { background-position: 96.21301775147928% 81.17977528089888%;  }
+    94.44444444444444% { background-position: 58.4607274644175% 83.69259606373008%;  }
+}
+
+.jee_mn_28_jan_2025_s1_sol-animation {
+    max-width: 236px;
+    max-height: 220px;
+}
+.jee_mn_28_jan_2025_s1_sol-animation::after {
+    content: '\00a0';
+    display: inline-block;
+    width: 236px;
+    height: 220px;
+    padding: 0;
+    background-image: url(jee_mn_28_jan_2025_s1_0.png);
+    background-size: 867.3728813559322% 559.0909090909091%; 
+    animation-name: jee_mn_28_jan_2025_s1_sol-frames;
+    animation-timing-function: steps(1);
+    animation-duration: 1s;
+    animation-iteration-count: infinite;
+}
+div.jee_mn_28_jan_2025_s1_sol-animation::after {
+    max-width: 236px;
+    width: 100%;
+    height: 0;
+    padding: 0 0 93.22033898305085% 0;
+}
+
+/* $TexturePacker:SmartUpdate:823cdc7ea18373ff5450015d3e8ba011:20a4db52887a9446645c61c622453233:2779ed6bdf8eff109f5492facae64cc8$ */
